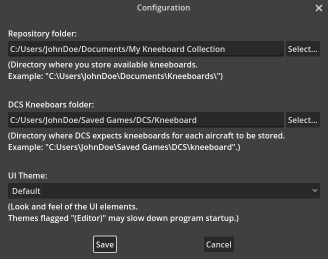
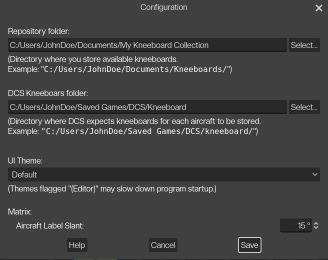
Prepare release 0.0.3

diff --git a/README.md b/README.md
@@ -2,6 +2,9 @@
 
 <img src="images/tab_kneeboards.png" style="width: 48%; float: left;" alt="Screenshot Kneeboards Tab"/>   <img src="images/tab_matrix.png" style="width: 48%; float: left;" alt="Screenshot Matrix Tab"/>
 
+Latest Version: [0.0.3](//github.com/dantei-dev/Kneeboard-Manager-Releases/releases)
+Highlights: Slantable aircraft labels,  
+
 The *Kneeboard Manager* allows to easily manage and organize multiple kneeboards between multiple DCS aircrafts.
 No more need to copy dozens of files manually into multiple directories.  
 No more need to manually create directories for new aircrafts.  
@@ -35,5 +38,5 @@ Planned features:
 Screenshots:
 
 <img src="images/tab_kneeboards.png" style="width: 48%; float: left;" alt="Screenshot Kneeboards Tab"/>   <img src="images/tab_aircrafts.png" style="width: 48%; float: left;" alt="Screenshot Aircrafts Tab"/>
-<img src="images/tab_matrix.png" style="width: 48%; float: left;" alt="Screenshot Matrix Tab"/>  <img src="images/help_browser.png" style="width: 48%; float: left;" alt="Screenshot Help Browser"/>
-<img src="images/configuration_dialog.png" style="width: 48%; float: left;" alt="Screenshot Configuration Dialog"/>  
+<img src="images/tab_matrix.png" style="width: 48%; float: left;" alt="Screenshot Matrix Tab"/>  <img src="images/kneeboard_browser.png" style="width: 48%; float: left;" alt="Screenshot Kneeboard Browser"/>
+<img src="images/help_browser.png" style="width: 48%; float: left;" alt="Screenshot Help Browser"/>  <img src="images/configuration_dialog.png" style="width: 48%; float: left;" alt="Screenshot Configuration Dialog"/>  
